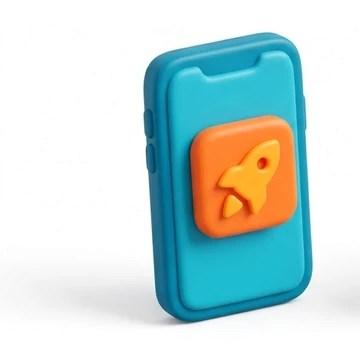
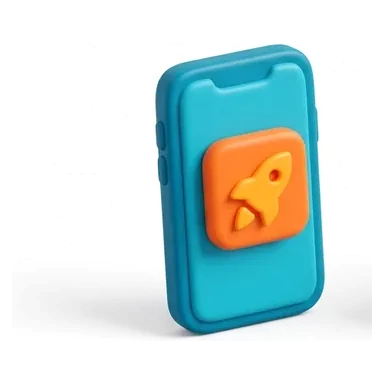
Quita el recuadro y el parpadeo de los símbolos 3D
Eran dos fallas distintas con la misma causa de fondo: los símbolos no
traían transparencia, traían fondo blanco disuelto con
mix-blend-multiply.

1. El recuadro permanente de los giros. El fondo de esos archivos no era
   blanco puro sino 254.5 de promedio, con orillas en 226 por ruido de
   compresión. Multiplicado contra la página (244) daba 243. Un nivel de
   255: invisible en un monitor, visible como recuadro en un OLED. Medido
   en la captura del teléfono, no supuesto — parche plano de 243 en
   x=151..318 de la fila 872, sobre página de 244.

2. El medio segundo al entrar, en los pasos. El motion.div de HowItWorks
   anima opacidad Y desplazamiento; las dos crean contexto de
   apilamiento, y eso aísla el mix-blend-multiply. Aislado no aplica, así
   que durante los 450 ms de la animación se veía el rectángulo blanco
   del archivo: 255 contra 244, once niveles. Medido en vuelo: a opacidad
   0.77 había 21,383 píxeles ≥250 dentro de la caja del símbolo. Con el
   arreglo, 0.

Arreglos, distintos porque los archivos no son iguales:

- Giros → alfa de verdad, y fuera el blend. Se puede porque el sujeto es
  de color y el fondo blanco. El alfa sale de la cobertura (1 - min/255),
  que es literalmente lo que hacía el multiply, y el color se
  despremultiplica para que la sombra suave siga siendo negro
  semitransparente encima de cualquier fondo. Los blancos de ADENTRO del
  objeto —el papel del certificado, la cara iluminada de la taza— se
[…]

Changed region(s): [[0.3361, 0.0917, 0.8861, 0.9167], [0.5194, 0.4278, 0.55, 0.6111], [0.9472, 0.825, 1.0, 0.8861]]

diff --git a/src/components/marketing/HowItWorks.tsx b/src/components/marketing/HowItWorks.tsx
@@ -78,6 +78,17 @@ export default function HowItWorks() {
                 whileInView={{ opacity: 1, y: 0 }}
                 viewport={{ once: true, margin: "-60px" }}
                 transition={{ duration: 0.45, ease: "easeOut" }}
+                // El color de la página, pintado aquí a propósito. Se ve
+                // igual que si no lo llevara, pero sin él el símbolo
+                // parpadeaba medio segundo al entrar: esta animación mueve
+                // opacidad Y desplazamiento, las dos crean contexto de
+                // apilamiento, y eso aísla el mix-blend-multiply del
+                // símbolo. Aislado, el blend no aplica y durante los 450 ms
+                // de la entrada se veía el rectángulo blanco del archivo
+                // contra el gris de la página: 255 contra 244. Con el color
+                // aquí, el blend tiene contra qué multiplicar desde el
+                // primer cuadro.
+                style={{ backgroundColor: "var(--background)" }}
                 className={`flex items-center gap-4 sm:w-[54%] sm:gap-7 ${
                   derecha ? "flex-row-reverse text-right sm:ml-auto" : "sm:mr-auto"
                 }`}
@@ -86,9 +97,16 @@ export default function HowItWorks() {
                   src={step.simbolo}
                   alt=""
                   aria-hidden="true"
-                  // mix-blend-multiply y no un recorte con transparencia: el
-                  // fondo de los símbolos quedó en blanco exacto al
-                  // procesarlos, y multiplicado contra la página desaparece.
+                  // mix-blend-multiply y no transparencia de verdad, al
+                  // revés que los símbolos de giros. Aquí no se puede: el
+                  // objeto es plástico BLANCO sobre fondo blanco y no hay
+                  // señal que los separe, el mismo caso del muñeco del
+                  // hero. Probado: el avión de papel quedaba con 10% de
+                  // píxeles opacos, o sea deshecho. Lo que sí se hizo fue
+                  // dejar el fondo de los archivos en 255 exacto —venía en
+                  // 253.4— para que el multiply sea una identidad y no
+                  // pinte el recuadro de 243 que se veía en los giros.
+                  // Ver scripts/alfa-simbolos.py.
                   className="h-24 w-24 shrink-0 object-contain mix-blend-multiply sm:h-32 sm:w-32"
                 />
                 {/* El número va dentro de la línea del título y no como

diff --git a/src/components/marketing/IndustryScrollGallery.tsx b/src/components/marketing/IndustryScrollGallery.tsx
@@ -99,27 +99,27 @@ export default function IndustryScrollGallery() {
             >
               <motion.div
                 className="flex w-[100px] flex-col items-center gap-2 sm:w-[130px] sm:gap-2.5"
-                style={{
-                  rotate: g.giro,
-                  // El color de la página, repetido aquí: se ve igual que
-                  // si no lo llevara, pero le da al multiply del símbolo
-                  // algo contra qué multiplicar. Hace falta porque el
-                  // `rotate` y el vaivén de abajo crean contexto de
-                  // apilamiento y aíslan el blend — sin este color el
-                  // fondo blanco del símbolo se queda blanco y reaparece
-                  // el recuadro que justamente se quería quitar.
-                  backgroundColor: "var(--background)",
-                }}
+                style={{ rotate: g.giro }}
                 animate={reducirMovimiento ? undefined : { y: [0, -g.vuelo, 0] }}
                 transition={
                   reducirMovimiento ? undefined : { duration: g.ritmo, repeat: Infinity, ease: "easeInOut" }
                 }
               >
+                {/* Los archivos traen transparencia de verdad, no fondo
+                    blanco disuelto con mix-blend-multiply. El blend dejaba
+                    un recuadro: el fondo de los archivos promediaba 254.5,
+                    no 255, y multiplicado contra la página daba 243 sobre
+                    244. Un nivel, invisible en un monitor y perfectamente
+                    visible en un OLED. Y de paso el blend obligaba a
+                    pintarle el color de la página a cualquier ancestro que
+                    creara contexto de apilamiento —el giro, el vaivén, la
+                    animación de entrada—, cosa que ya no hace falta
+                    vigilar. Ver scripts/alfa-simbolos.py. */}
                 <img
                   src={g.simbolo}
                   alt=""
                   aria-hidden="true"
-                  className="h-14 w-14 object-contain mix-blend-multiply sm:h-20 sm:w-20"
+                  className="h-14 w-14 object-contain sm:h-20 sm:w-20"
                 />
                 <p className="text-balance text-center text-[13px] font-medium leading-tight text-zinc-700 sm:text-sm">
                   {g.label}

diff --git a/scripts/alfa-simbolos.py b/scripts/alfa-simbolos.py
@@ -1,0 +1,162 @@
+#!/usr/bin/env python3
+"""Arregla el fondo de los símbolos 3D de la landing. Dos tratamientos,
+porque son dos problemas distintos.
+
+El diagnóstico, medido en las capturas del teléfono, no deducido:
+
+  · Los símbolos de giros (IndustryScrollGallery) dejan un recuadro
+    permanente. El fondo de esos archivos no es blanco puro sino 254.5 de
+    promedio, con orillas que bajan a 226 por ruido de compresión.
+    Multiplicado contra la página (244) da 243: un nivel de diferencia,
+    invisible en un monitor y perfectamente visible como recuadro en un
+    OLED. En la captura del usuario: parche plano de 243 en x=151..318 de
+    la fila 872, sobre página de 244.
+
+  · Los símbolos de pasos (HowItWorks) parpadean medio segundo al entrar.
+    Ahí el `motion.div` anima opacidad y desplazamiento, las dos cosas
+    crean contexto de apilamiento, y eso AÍSLA el mix-blend-multiply. Sin
+    blend, durante esos 450 ms se ve el rectángulo blanco del archivo
+    contra el gris de la página: 255 contra 244, once niveles.
+
+Tratamiento 1 — alfa de verdad (giros). Se puede porque el sujeto es
+de color y el fondo blanco. Quita el blend y con él las dos fallas.
+
+Tratamiento 2 — blanquear a 255 exacto (pasos). Ahí el sujeto es
+plástico BLANCO sobre fondo blanco: no hay señal que los separe, igual
+que con el muñeco del hero. Cualquier recorte se come el objeto —
+probado, el avión de papel quedaba en 10% de píxeles opacos. Lo que sí
+se puede es dejar el fondo en 255 exacto para que el multiply sea una
+identidad y no queden 243. El parpadeo se arregla en el componente,
+pintando el color de la página en el elemento que anima.
+"""
+
+from pathlib import Path
+
+import numpy as np
+from PIL import Image
+from scipy import ndimage
+
+RAIZ = Path(__file__).resolve().parent.parent
+
+# Debajo de este brillo el pixel ya no puede ser fondo: es sujeto o es
+# sombra. 248 y no 255 porque los archivos traen ruido de compresión.
+UMBRAL_FONDO = 248.0
+# Cobertura mínima para contar como cuerpo del objeto. 0.25 deja fuera la
+# sombra suave (que anda en 0.05-0.20) y deja dentro hasta la cara más
+# clara de un objeto de color.
+COBERTURA_NUCLEO = 0.25
+
+
+def cobertura(rgb: np.ndarray) -> np.ndarray:
+    """Qué tanto se aleja cada pixel del blanco puro, 0 a 1.
+
+    Es exactamente lo que hace `mix-blend-multiply`, solo que guardado en
+    el canal alfa en vez de calculado cada cuadro por el navegador.
+    """
+    return np.clip(1.0 - rgb.min(2) / 255.0, 0.0, 1.0)
+
+
+def recortar(src: Path, dst: Path, margen: int = 12) -> dict:
+    rgb = np.asarray(Image.open(src).convert("RGB")).astype(np.float64)
+    cob = cobertura(rgb)
+
+    # El cuerpo del objeto, con sus huecos tapados. Tapar los huecos es lo
+    # que salva los blancos de ADENTRO —el papel del certificado, la cara
+    # iluminada de la taza—: por brillo son idénticos al fondo, y sin este
+    # paso quedaban transparentes. La sombra de abajo NO entra aquí
+    # porque su cobertura no llega al umbral, y por eso sobrevive como
+    # negro semitransparente en vez de volverse un manchón opaco.
+    nucleo = ndimage.binary_fill_holes(cob > COBERTURA_NUCLEO)
+    # Fuera los puntitos sueltos que deja la compresión en el fondo.
+    etiquetas, n = ndimage.label(nucleo)
+    if n:
+        areas = ndimage.sum(nucleo, etiquetas, range(1, n + 1))
+        vivas = np.where(areas > 200)[0] + 1
+        nucleo = np.isin(etiquetas, vivas)
+
+    alfa = np.where(nucleo, 1.0, cob)
+    # El salto de 1 a cobertura cae justo en el borde antialiaseado; medio
+    # pixel de suavizado le quita el escalón sin engordar la silueta.
+    alfa = ndimage.gaussian_filter(alfa, 0.6)
+
+    # Despremultiplicar. El archivo trae el objeto ya mezclado con blanco;
+    # sin deshacer esa mezcla la sombra saldría gris opaco encima de
+    # cualquier fondo que no sea blanco.
+    a = np.clip(alfa, 1e-3, 1.0)[..., None]
+    color = np.clip((rgb - 255.0 * (1.0 - a)) / a, 0, 255)
+    color = np.where(alfa[..., None] < 0.004, 255.0, color)
+
+    rgba = np.dstack([color, alfa * 255.0]).round().astype(np.uint8)
+
+    # Recorte al contenido en lienzo cuadrado. Los archivos traían aire
+    # distinto cada uno y, metidos todos en la misma caja CSS, unos se
+    # veían más chicos que otros sin razón.
+    ys, xs = np.where(alfa > 0.02)
+    y0, y1, x0, x1 = ys.min(), ys.max() + 1, xs.min(), xs.max() + 1
+    lado = max(y1 - y0, x1 - x0) + margen * 2
+    lienzo = np.zeros((lado, lado, 4), dtype=np.uint8)
+    lienzo[..., :3] = 255
+    py, px = (lado - (y1 - y0)) // 2, (lado - (x1 - x0)) // 2
+    lienzo[py:py + (y1 - y0), px:px + (x1 - x0)] = rgba[y0:y1, x0:x1]
+
+    # alpha_quality aparte del color: el alfa es casi todo plano —0 o 255,
+    # con una rampa corta en el borde— y aguanta más compresión que el
+    # dibujo. Con q=80/alpha=88 los nueve símbolos pesan 179 KB en vez de
+    # 222, y el peor archivo se aleja 2.4 de 255 del guardado sin pérdida.
+    #
+    # Aun así son 105 KB más que los 73 de antes: eso cuesta el canal alfa,
+    # y se paga a cambio de que el recuadro desaparezca de verdad en vez de
+    # depender de que el fondo del archivo esté en 255 exacto.
+    Image.fromarray(lienzo, "RGBA").save(
+        dst, "WEBP", quality=80, alpha_quality=88, method=6, exact=True
+    )
+    return {
+        "opaco%": round(100 * (alfa > 0.98).mean(), 1),
+        "suave%": round(100 * ((alfa > 0.02) & (alfa < 0.98)).mean(), 1),
+        "lado": int(lado),
+        "kb": round(dst.stat().st_size / 1024, 1),
+    }
+
+
+def blanquear(src: Path, dst: Path) -> dict:
+    """Deja el fondo en 255 exacto, sin tocar el objeto.
+
+    Todo lo que esté por encima del umbral Y conectado al borde es fondo.
+    La condición de conexión es la que impide que esto blanquee también
+    las caras claras del objeto, que están al mismo brillo.
+    """
+    rgb = np.asarray(Image.open(src).convert("RGB")).astype(np.float64)
+    L = rgb.mean(2)
+
+    etiquetas, _ = ndimage.label(L >= UMBRAL_FONDO)
+    borde = np.concatenate([etiquetas[0], etiquetas[-1], etiquetas[:, 0], etiquetas[:, -1]])
+    fondo = np.isin(etiquetas, np.unique(borde[borde > 0]))
+    # Un pixel adentro: la orilla del fondo colinda con el degradado del
+    # antialiasing y aplanarla a 255 dejaría un escalón en el contorno.
+    fondo = ndimage.binary_erosion(fondo, iterations=1)
+
+    antes = rgb[fondo].mean()
+    salida = rgb.copy()
+    salida[fondo] = 255.0
+    Image.fromarray(salida.round().astype(np.uint8), "RGB").save(
+        dst, "WEBP", quality=92, method=6
+    )
+    return {"fondo_antes": round(antes, 1), "fondo_ahora": 255, "kb": round(dst.stat().st_size / 1024, 1)}
+
+
+def main() -> None:
+    giros = RAIZ / "public/giros"
+    for src in sorted(giros.glob("*.webp")):
+        print(f"alfa   {src.name:20}", recortar(src, giros / f"{src.stem}.tmp.webp"))
+    for tmp in sorted(giros.glob("*.tmp.webp")):
+        tmp.replace(giros / tmp.name.replace(".tmp", ""))
+
+    pasos = RAIZ / "public/pasos"
+    for src in sorted(pasos.glob("*.webp")):
+        print(f"blanco {src.name:20}", blanquear(src, pasos / f"{src.stem}.tmp.webp"))
+    for tmp in sorted(pasos.glob("*.tmp.webp")):
+        tmp.replace(pasos / tmp.name.replace(".tmp", ""))
+
+
+if __name__ == "__main__":
+    main()
